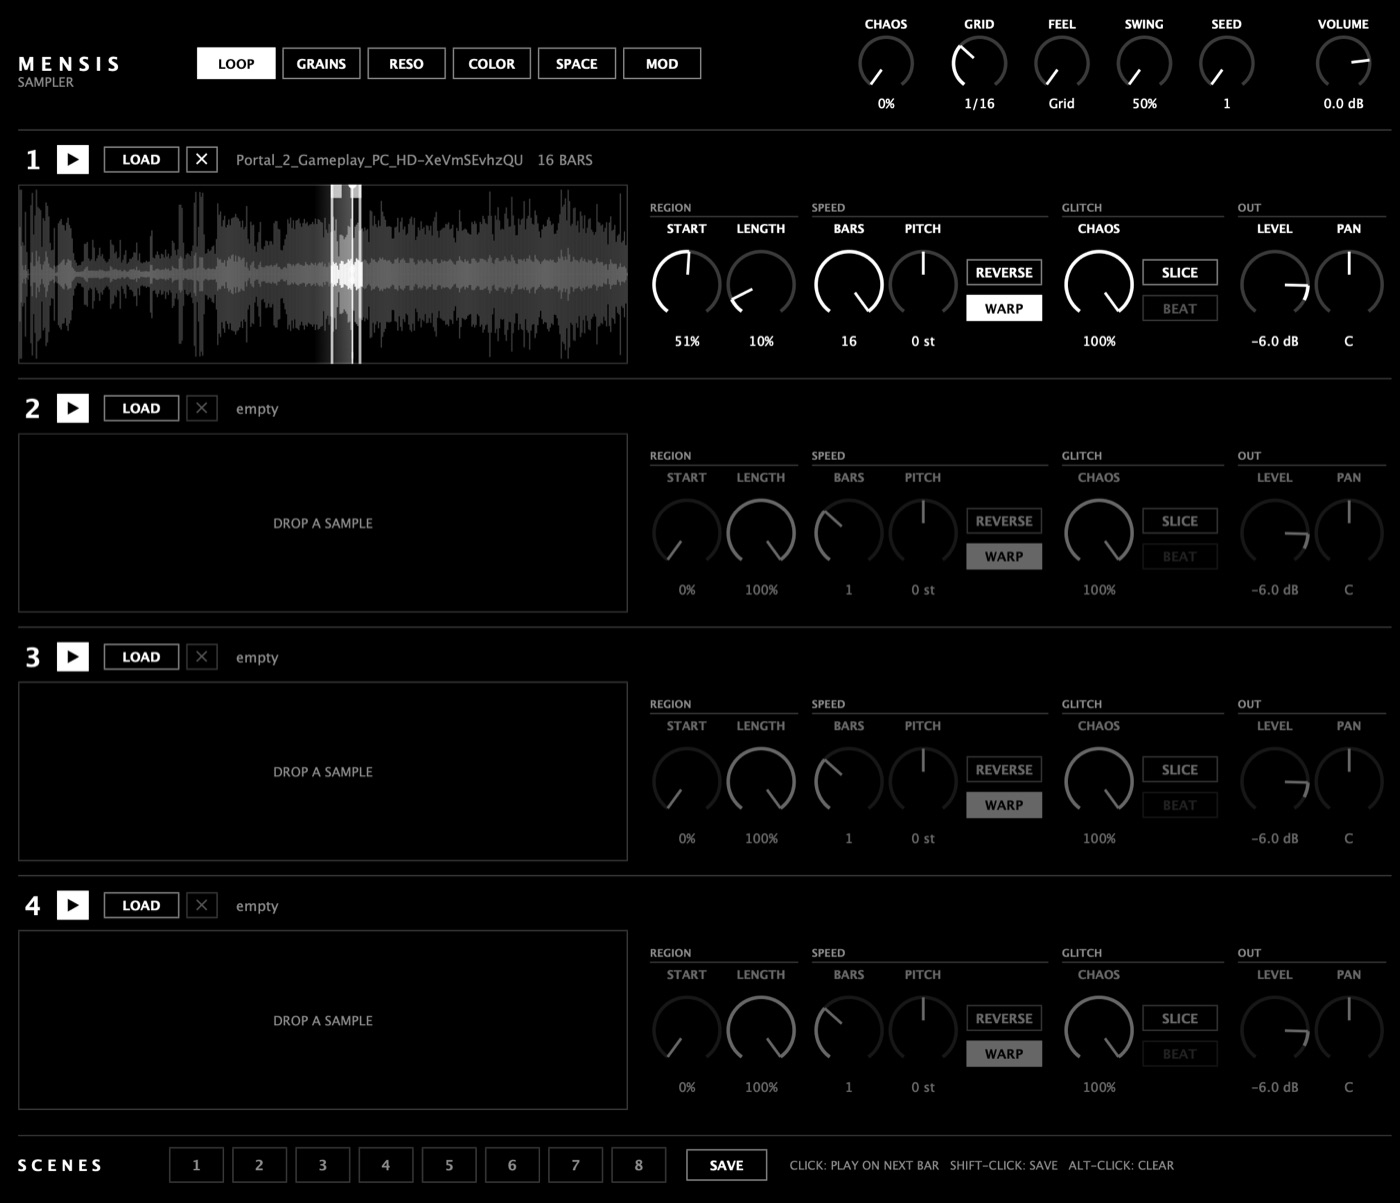
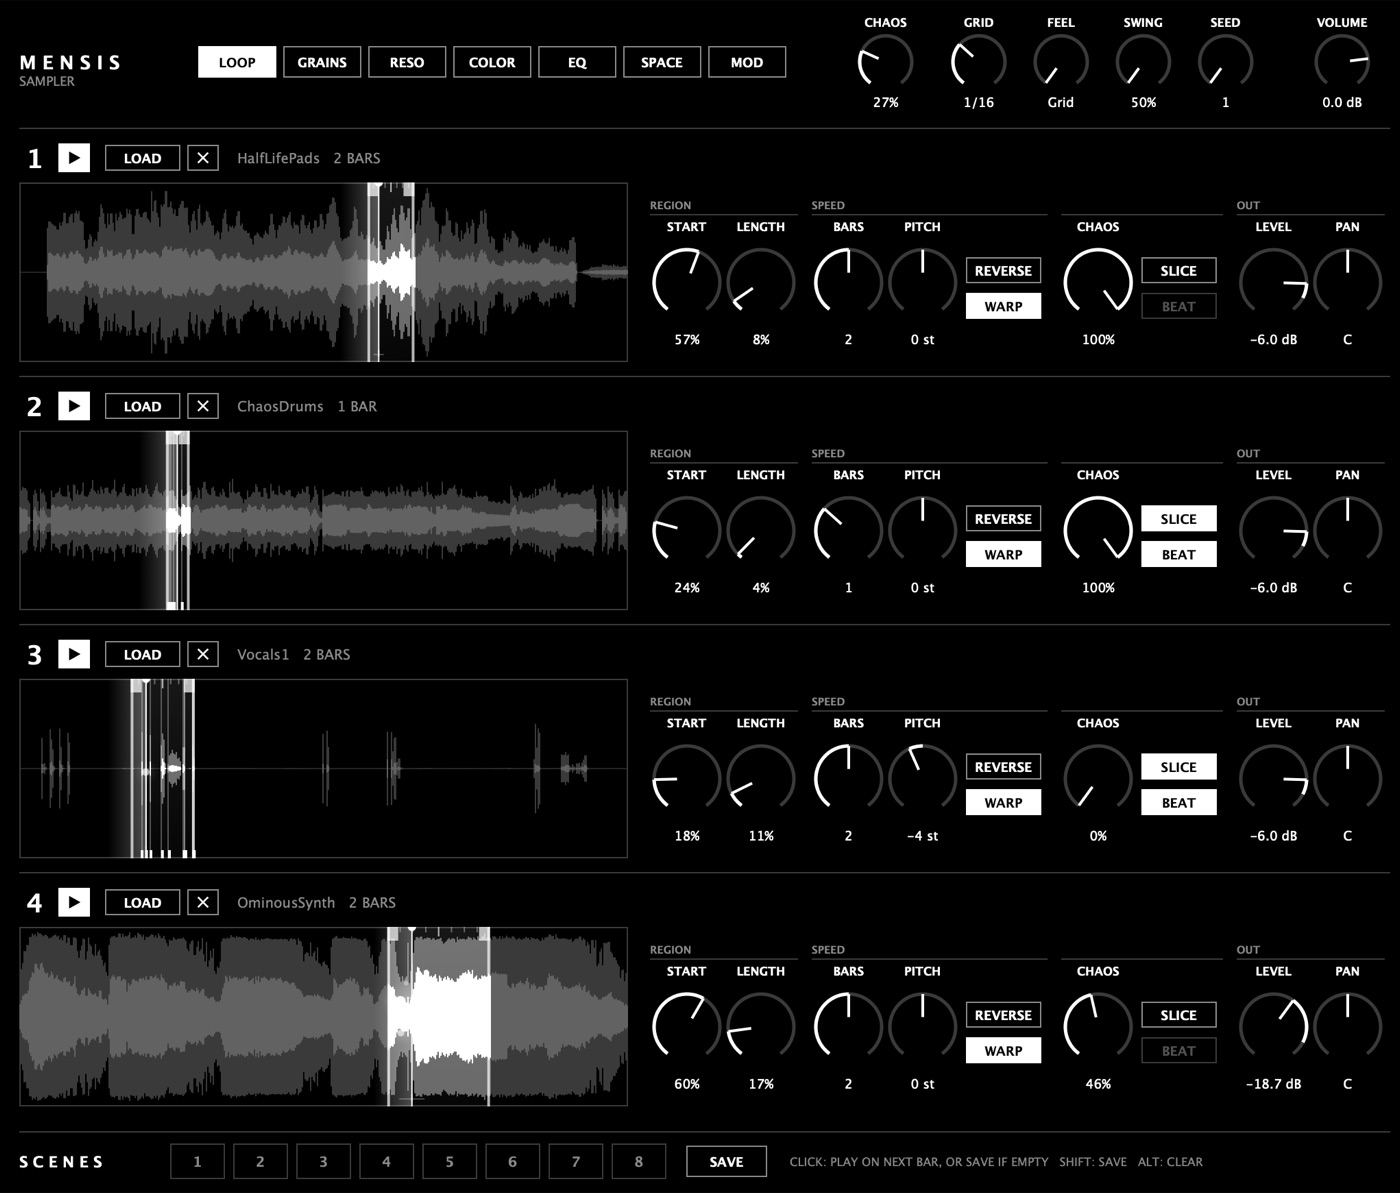
New Mensis screenshot

diff --git a/index.html b/index.html
@@ -66,7 +66,7 @@
     <section id="sampler" data-section="sampler">
       <h2>Mensis Sampler</h2>
       <p class="music-intro">A self-playing sampler plugin (VST3 + AU) for Ableton Live. Four tracks loop in sync, a Chaos knob throws in jumps, stutters, reverses and dropouts. Work in progress.</p>
-      <img src="mensis-sampler.jpg" alt="Mensis Sampler plugin window: four sample tracks with waveforms and knobs" class="sampler-shot" width="1400" height="1203" loading="lazy">
+      <img src="mensis-sampler.jpg" alt="Mensis Sampler plugin window: four sample tracks with waveforms and knobs" class="sampler-shot" width="1400" height="1193" loading="lazy">
     </section>
 
     <section id="links" data-section="links">
